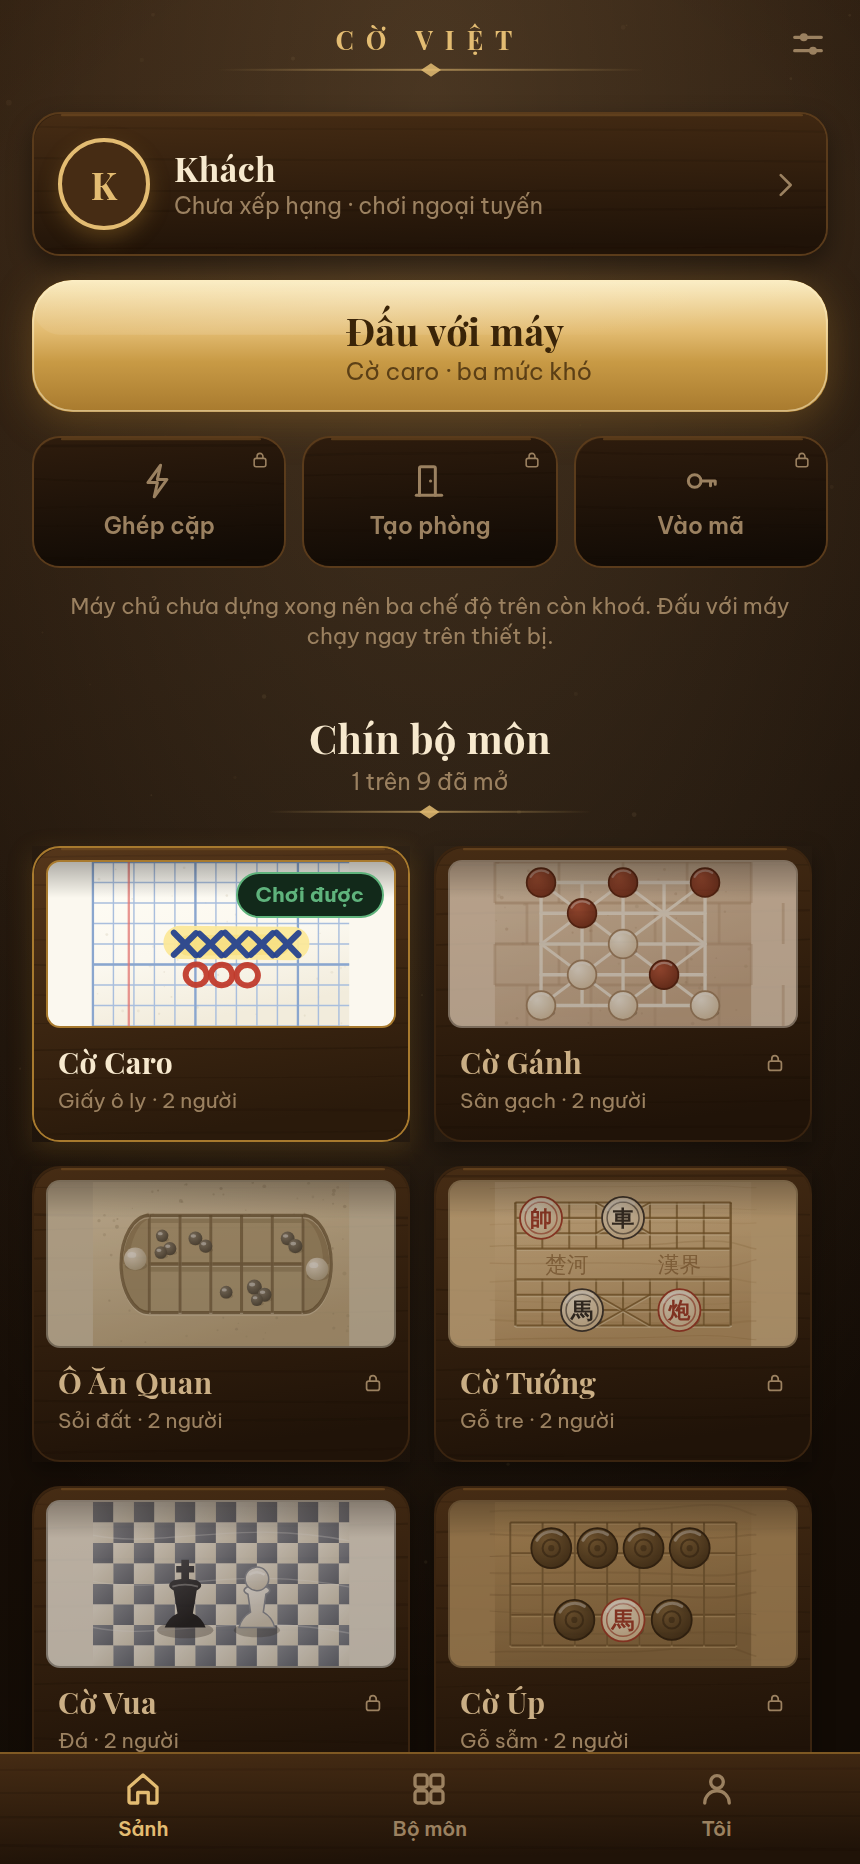
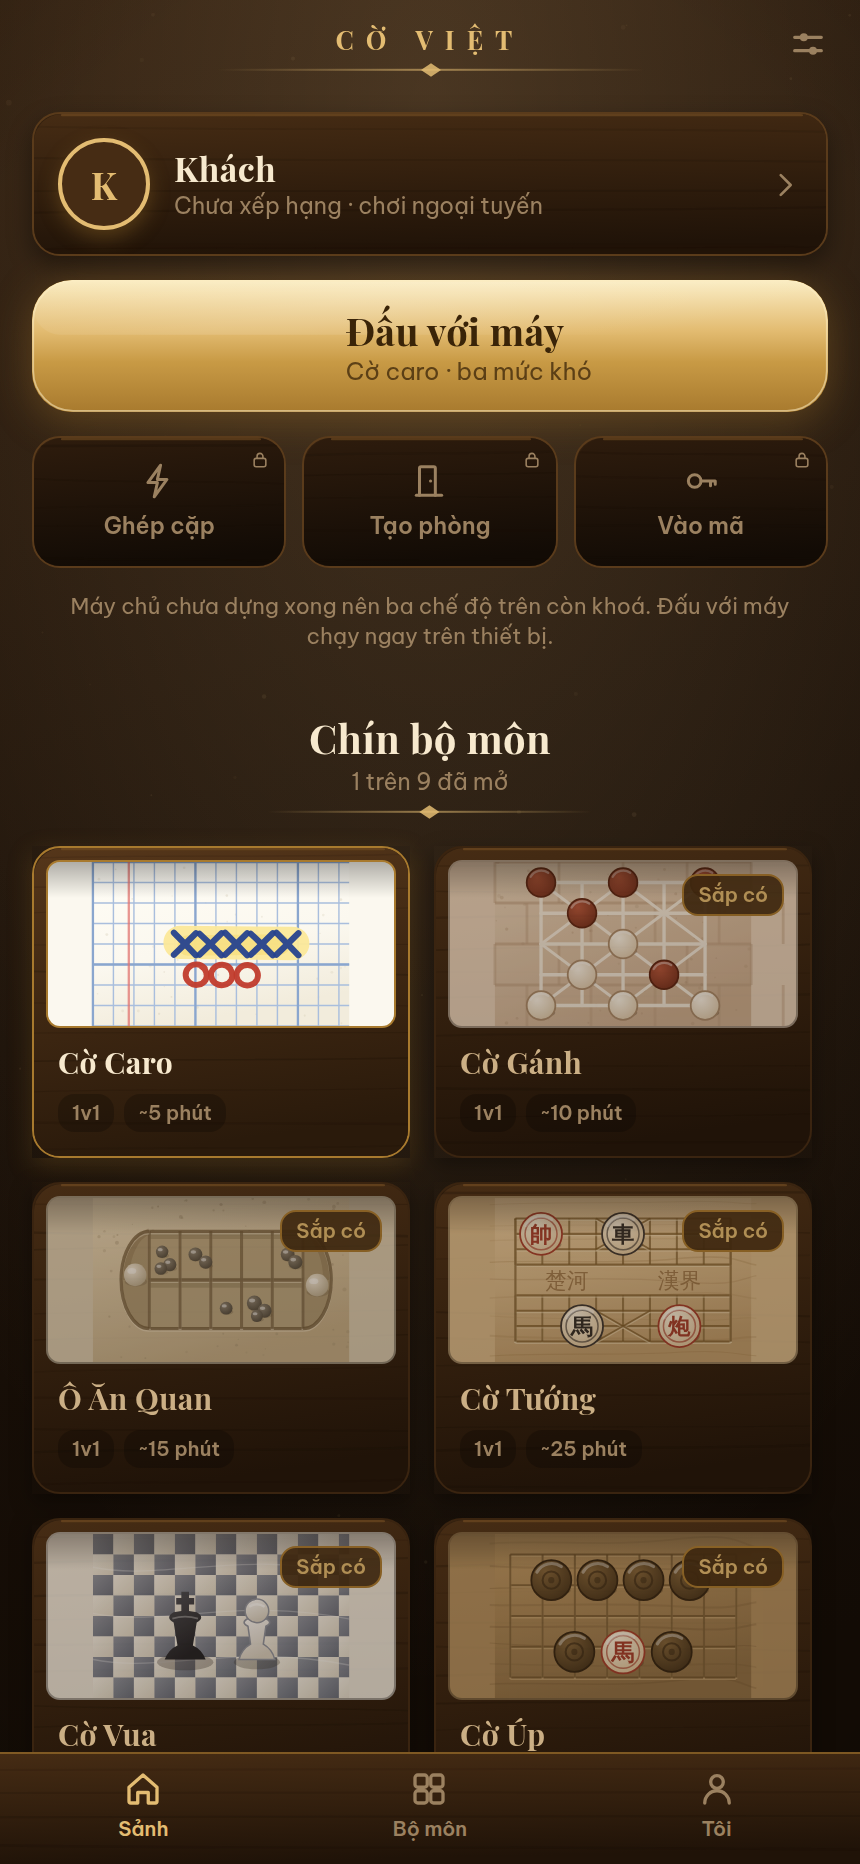
Đổi nhãn trên thẻ bộ môn sang kiểu sảnh game nhiều người
Bỏ nhãn "Chơi được": nó dán lên đúng cái thẻ đang sáng, có viền vàng và
bấm được, trong khi tám thẻ kia mờ hẳn. Nhãn chỉ nên nói thứ nhìn vào chưa
biết.

Thay bằng chế độ và thời lượng một ván — hai nhãn quyết định người ta có
bấm vào hay không: còn mười lăm phút thì chơi caro chứ không mở cờ vây.
Trạng thái "Sắp có" chuyển lên góc hình, không xen vào hàng nhãn, vì ba
nhãn một hàng làm thẻ "2–4 người" xuống dòng và hai thẻ cùng hàng cao thấp
khác nhau.

Không làm nhãn số người đang chơi. Đó là nhãn mạnh nhất trong mọi sảnh
game, nhưng chưa có máy chủ nào đếm, mà bịa một con số thì người chơi phát
hiện ngay lần đầu bấm vào phòng trống.

Changed region(s): [[0.0302, 0.5912, 0.9674, 0.9646], [0.2721, 0.4667, 0.4535, 0.4979], [0.786, 0.4667, 0.907, 0.4979]]

diff --git a/apps/mobile/src/games/faces.tsx b/apps/mobile/src/games/faces.tsx
@@ -41,7 +41,19 @@ export interface GameFace {
   /** Nền của hình thu nhỏ — chính là chất liệu bàn cờ. */
   surface: string;
   material: string;
-  seats: string;
+  /**
+   * Nhãn trên thẻ, đúng loại nhãn mà các sảnh game nhiều người vẫn dùng: chế
+   * độ và thời lượng một ván. Hai thứ đó quyết định người ta có bấm vào hay
+   * không — "còn mười lăm phút nữa phải đi, chơi được ván nào?".
+   *
+   * Không có nhãn "đang có bao nhiêu người chơi" vì chưa có máy chủ nào đếm.
+   * Nhãn số người online là nhãn mạnh nhất trong mọi sảnh game, nhưng bịa ra
+   * một con số thì nó thành nhãn dối, và người chơi phát hiện ngay lần đầu
+   * bấm vào phòng trống.
+   */
+  mode: string;
+  /** Thời lượng một ván thường gặp, không phải kỷ lục. */
+  minutes: string;
   ready: boolean;
   Motif: () => React.ReactElement;
 }
@@ -207,7 +219,8 @@ export const FACES: GameFace[] = [
     accent: '#25428F',
     surface: '#FBF8EF',
     material: 'Giấy ô ly',
-    seats: '2 người',
+    mode: '1v1',
+    minutes: '~5 phút',
     ready: true,
     Motif: () => (
       <Frame bg="#FBF8EF">
@@ -254,7 +267,8 @@ export const FACES: GameFace[] = [
     accent: '#C06030',
     surface: '#E8D3BC',
     material: 'Sân gạch',
-    seats: '2 người',
+    mode: '1v1',
+    minutes: '~10 phút',
     ready: false,
     Motif: () => (
       <Frame bg="#E8D3BC">
@@ -344,7 +358,8 @@ export const FACES: GameFace[] = [
     accent: '#6E8F4A',
     surface: '#D9CBB0',
     material: 'Sỏi đất',
-    seats: '2 người',
+    mode: '1v1',
+    minutes: '~15 phút',
     ready: false,
     Motif: () => {
       const rnd = seeded(99);
@@ -421,7 +436,8 @@ export const FACES: GameFace[] = [
     accent: '#A33B2A',
     surface: '#D8B98A',
     material: 'Gỗ tre',
-    seats: '2 người',
+    mode: '1v1',
+    minutes: '~25 phút',
     ready: false,
     Motif: () => (
       <Frame bg="#D8B98A">
@@ -473,7 +489,8 @@ export const FACES: GameFace[] = [
     accent: '#7C8AA0',
     surface: '#EDE7DC',
     material: 'Đá',
-    seats: '2 người',
+    mode: '1v1',
+    minutes: '~25 phút',
     ready: false,
     Motif: () => (
       <Frame bg="#EDE7DC">
@@ -538,7 +555,8 @@ export const FACES: GameFace[] = [
     accent: '#8A6A3B',
     surface: '#B08E5E',
     material: 'Gỗ sẫm',
-    seats: '2 người',
+    mode: '1v1',
+    minutes: '~20 phút',
     ready: false,
     Motif: () => (
       <Frame bg="#B08E5E">
@@ -591,7 +609,8 @@ export const FACES: GameFace[] = [
     accent: '#1F8A8A',
     surface: '#F2EFE6',
     material: 'Nhựa bóng',
-    seats: '2–4 người',
+    mode: '2–4 người',
+    minutes: '~30 phút',
     ready: false,
     Motif: () => {
       const peg = (x: number, y: number, c: string, d: string) => (
@@ -671,7 +690,8 @@ export const FACES: GameFace[] = [
     accent: '#4C4740',
     surface: '#E3BE7C',
     material: 'Gỗ kaya',
-    seats: '2 người',
+    mode: '1v1',
+    minutes: '~45 phút',
     ready: false,
     Motif: () => (
       <Frame bg="#E3BE7C">
@@ -729,7 +749,8 @@ export const FACES: GameFace[] = [
     accent: '#C2477E',
     surface: '#EAF0E6',
     material: 'Bìa cứng',
-    seats: '2–4 người',
+    mode: '2–4 người',
+    minutes: '~60 phút',
     ready: false,
     Motif: () => (
       <Frame bg="#EAF0E6">

diff --git a/apps/mobile/app/index.tsx b/apps/mobile/app/index.tsx
@@ -7,7 +7,7 @@ import { registry } from '@co/core';
 import '../src/catalog';
 import { FACES, type GameFace } from '../src/games/faces';
 import { Icon, type IconName } from '../src/ui/Icon';
-import { Avatar, Btn, Tag, Txt } from '../src/ui/kit';
+import { Avatar, Btn, Txt } from '../src/ui/kit';
 import { AppBackdrop, Panel, Rule, WoodFill } from '../src/ui/surface';
 import { A, R, S, glow, lift } from '../src/ui/theme';
 
@@ -197,26 +197,54 @@ function GameCard({
             {/* Bóng đổ của khung hắt vào trong hình, để hình lõm xuống dưới
                 mặt gỗ chứ không nổi lên trên. */}
             <InsetShade />
+            {/* Trạng thái nằm trên hình chứ không xen vào hàng nhãn: ba nhãn
+                một hàng thì thẻ "2–4 người" bị xuống dòng, và hai thẻ cùng
+                hàng cao thấp khác nhau. */}
+            {ready ? null : (
+              <View style={{ position: 'absolute', top: 6, right: 6 }}>
+                <Chip label="Sắp có" muted />
+              </View>
+            )}
           </View>
         </View>
-        <View style={{ paddingHorizontal: S.md, paddingBottom: S.md, paddingTop: 2, gap: 2 }}>
-          <View style={{ flexDirection: 'row', alignItems: 'center', gap: 5 }}>
-            <Txt size={15} weight="display" color={ready ? A.ink : A.inkSoft} style={{ flex: 1 }} numberOfLines={1}>
-              {face.nameVi}
-            </Txt>
-            {ready ? null : <Icon name="lock" size={11} color={A.inkFaint} />}
-          </View>
-          <Txt size={10.5} color={A.inkFaint} numberOfLines={1}>
-            {face.material} · {face.seats}
+        <View style={{ paddingHorizontal: S.md, paddingBottom: S.md, paddingTop: 2, gap: 6 }}>
+          <Txt size={15} weight="display" color={ready ? A.ink : A.inkSoft} numberOfLines={1}>
+            {face.nameVi}
           </Txt>
-        </View>
-        {ready ? (
-          <View style={{ position: 'absolute', top: 12, right: 12 }}>
-            <Tag label="Chơi được" color={A.jade} bg="#12291A" />
+          {/* Nhãn kiểu sảnh game nhiều người: chế độ, thời lượng ván, và
+              trạng thái nếu chưa mở. Nhãn "chơi được" dán lên thẻ chơi được
+              là nhãn thừa — thẻ sáng, có viền vàng, bấm được; tám thẻ kia mờ
+              và ghi rõ "sắp có". Nhãn chỉ nên nói thứ nhìn vào chưa biết. */}
+          <View style={{ flexDirection: 'row', flexWrap: 'wrap', gap: 5 }}>
+            <Chip label={face.mode} />
+            <Chip label={face.minutes} />
           </View>
-        ) : null}
+        </View>
       </Panel>
     </Pressable>
+  );
+}
+
+/**
+ * Nhãn nhỏ trên thẻ: khắc chìm vào mặt gỗ, không phải miếng dán nổi. Ba nhãn
+ * cạnh nhau mà cái nào cũng có viền sáng thì chúng đánh nhau với tên game.
+ */
+function Chip({ label, muted }: { label: string; muted?: boolean }) {
+  return (
+    <View
+      style={{
+        paddingHorizontal: 7,
+        paddingVertical: 2.5,
+        borderRadius: R.sm,
+        backgroundColor: muted ? '#40290FEE' : '#00000038',
+        borderWidth: muted ? 1 : 0,
+        borderColor: A.goldDeep,
+      }}
+    >
+      <Txt size={10} weight="semi" color={muted ? A.gold : A.inkFaint}>
+        {label}
+      </Txt>
+    </View>
   );
 }
 
